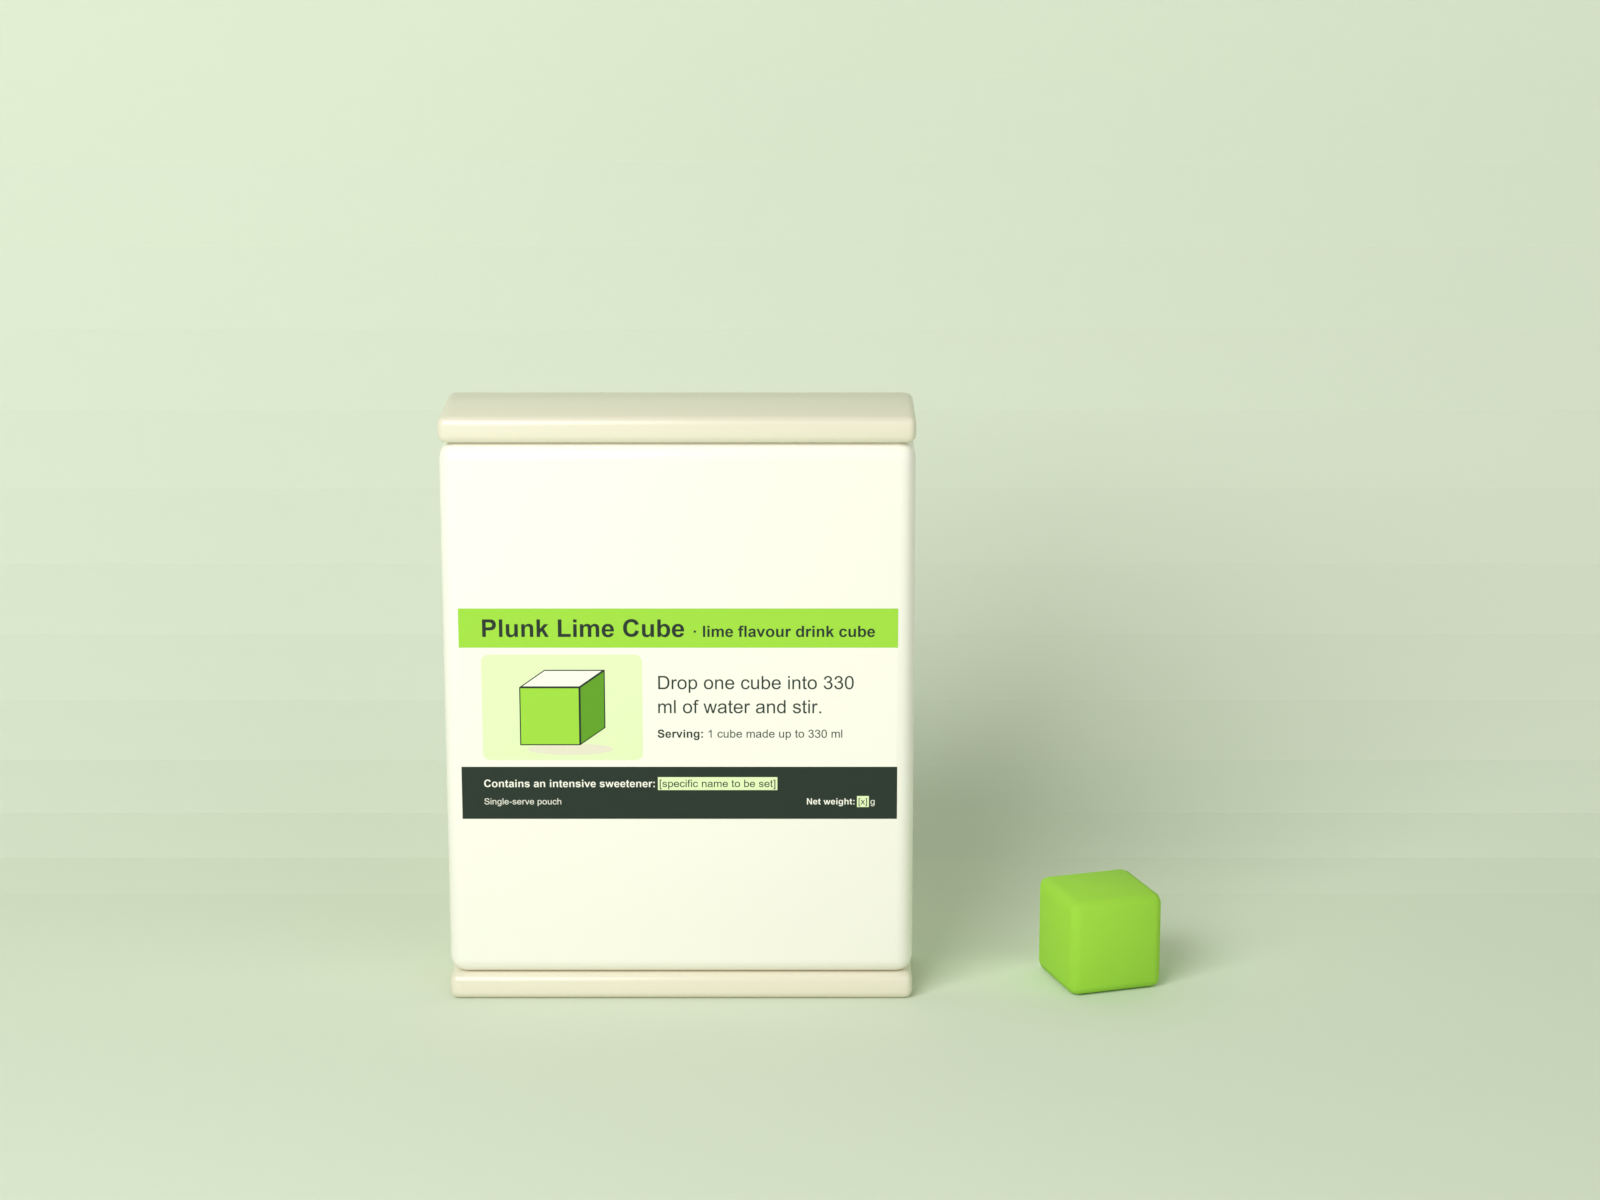
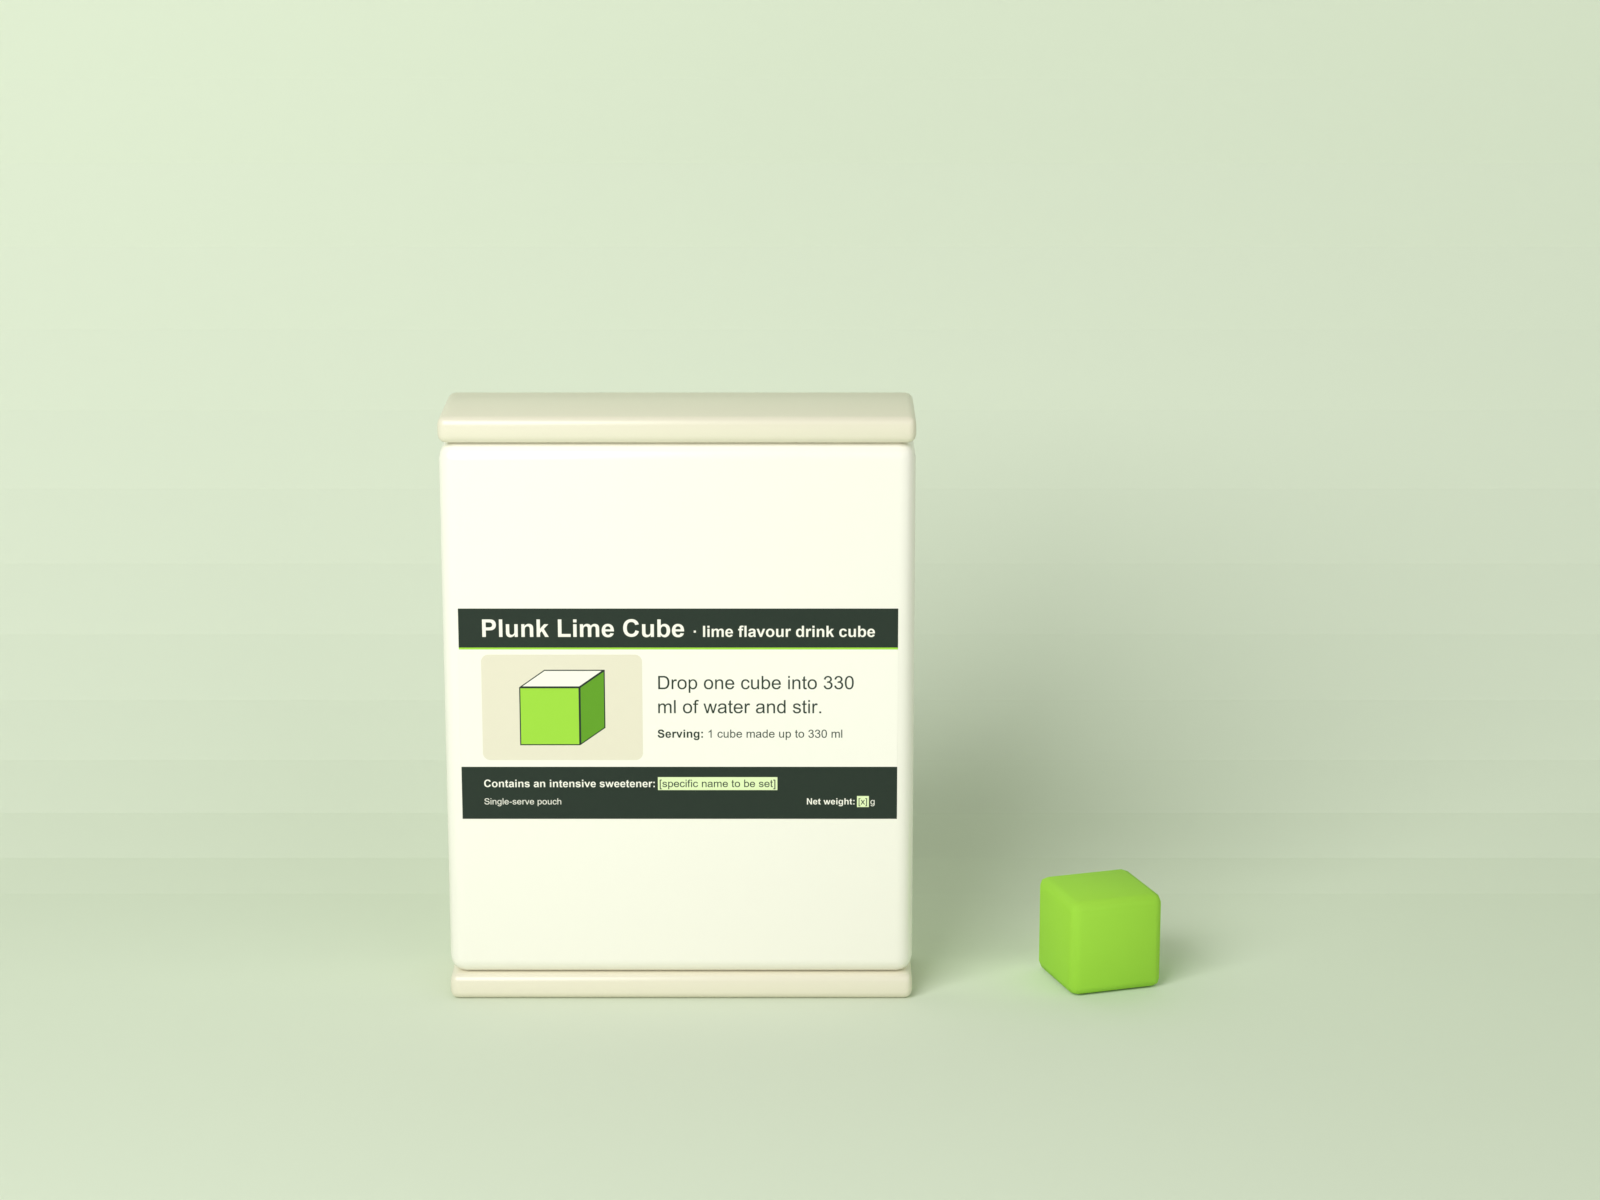
Redesign the pack with regard to the Singha lime soda can
Move the front-label name band from full lime to deep ink, add a thin
lime accent rule, and set the cube panel to off-white-deep. Lime stays
on the cube face only. Front and back, in the label and the 3D page.

Record the rules in rework/54: no lion, Garuda or SINGHA wordmark; lime
as an accent, not the field; no fruit-slice composition; no C badge; no
soda or lemon naming; keep the 330 ml reference; a flat pouch, not a can.
Observations are from search thumbnails only. Trade dress and trademark
are not cleared.

Hero re-rendered. Judge copies synced. Browser check 26/26.

Changed region(s): [[0.2812, 0.4933, 0.5625, 0.555]]

diff --git a/rework/judge/cube_3d.html b/rework/judge/cube_3d.html
@@ -285,7 +285,7 @@ function drawNameLine(ctx, baseline) {
   labelCheck.nameLineMm = (tW + yW) / PX_PER_MM;
   labelCheck.nameLineFitsAtSpec = !shrunk && (tW + yW) <= LIVE_W;
   labelCheck.nameLineSizeMm = { trade: Math.round(tSize * 100) / 100, type: Math.round(ySize * 100) / 100 };
-  ctx.fillStyle = C.ink;
+  ctx.fillStyle = C['off-white'];
   ctx.font = fontFor(T.weight, tSize);
   ctx.fillText(tradeName, MARGIN, baseline);
   ctx.font = fontFor(Y.weight, ySize);
@@ -389,11 +389,13 @@ function drawFront(ctx) {
   ctx.textAlign = 'left';
   ctx.fillStyle = C['off-white'];
   ctx.fillRect(0, 0, LABEL_W, LABEL_H);
-  ctx.fillStyle = C.lime;                     // top name band, 8 mm
+  ctx.fillStyle = C.ink;                      // top name band, deep ink (not the can's lime field)
   ctx.fillRect(0, 0, LABEL_W, 80);
   drawNameLine(ctx, 54);
-  ctx.fillStyle = C['lime-pale'];             // middle band, cube artwork
+  ctx.fillStyle = C['off-white-deep'];        // middle band, cube artwork
   ctx.fillRect(0, 80, LABEL_W, 400);
+  ctx.fillStyle = C.lime;                     // thin accent rule under the name band
+  ctx.fillRect(0, 80, LABEL_W, 10);
   drawIsoCube(ctx, LABEL_W / 2, 280, 100);
   ctx.fillStyle = C.ink;
   ctx.fillRect(0, 480, LABEL_W, 4);
@@ -412,9 +414,11 @@ function drawBack(ctx) {
   ctx.textAlign = 'left';
   ctx.fillStyle = C['off-white'];
   ctx.fillRect(0, 0, LABEL_W, LABEL_H);
-  ctx.fillStyle = C.lime;
-  ctx.fillRect(0, 0, LABEL_W, 80);
   ctx.fillStyle = C.ink;
+  ctx.fillRect(0, 0, LABEL_W, 80);
+  ctx.fillStyle = C.lime;
+  ctx.fillRect(0, 80, LABEL_W, 10);
+  ctx.fillStyle = C['off-white'];
   ctx.font = fontFor(TOKENS.typeMm.tradeName.weight, TOKENS.typeMm.tradeName.size);
   ctx.fillText(TOKENS.copyFront[0].split(' · ')[0], MARGIN, 54);
   let y = 136;

diff --git a/rework/mockup/cube_3d.html b/rework/mockup/cube_3d.html
@@ -285,7 +285,7 @@ function drawNameLine(ctx, baseline) {
   labelCheck.nameLineMm = (tW + yW) / PX_PER_MM;
   labelCheck.nameLineFitsAtSpec = !shrunk && (tW + yW) <= LIVE_W;
   labelCheck.nameLineSizeMm = { trade: Math.round(tSize * 100) / 100, type: Math.round(ySize * 100) / 100 };
-  ctx.fillStyle = C.ink;
+  ctx.fillStyle = C['off-white'];
   ctx.font = fontFor(T.weight, tSize);
   ctx.fillText(tradeName, MARGIN, baseline);
   ctx.font = fontFor(Y.weight, ySize);
@@ -389,11 +389,13 @@ function drawFront(ctx) {
   ctx.textAlign = 'left';
   ctx.fillStyle = C['off-white'];
   ctx.fillRect(0, 0, LABEL_W, LABEL_H);
-  ctx.fillStyle = C.lime;                     // top name band, 8 mm
+  ctx.fillStyle = C.ink;                      // top name band, deep ink (not the can's lime field)
   ctx.fillRect(0, 0, LABEL_W, 80);
   drawNameLine(ctx, 54);
-  ctx.fillStyle = C['lime-pale'];             // middle band, cube artwork
+  ctx.fillStyle = C['off-white-deep'];        // middle band, cube artwork
   ctx.fillRect(0, 80, LABEL_W, 400);
+  ctx.fillStyle = C.lime;                     // thin accent rule under the name band
+  ctx.fillRect(0, 80, LABEL_W, 10);
   drawIsoCube(ctx, LABEL_W / 2, 280, 100);
   ctx.fillStyle = C.ink;
   ctx.fillRect(0, 480, LABEL_W, 4);
@@ -412,9 +414,11 @@ function drawBack(ctx) {
   ctx.textAlign = 'left';
   ctx.fillStyle = C['off-white'];
   ctx.fillRect(0, 0, LABEL_W, LABEL_H);
-  ctx.fillStyle = C.lime;
-  ctx.fillRect(0, 0, LABEL_W, 80);
   ctx.fillStyle = C.ink;
+  ctx.fillRect(0, 0, LABEL_W, 80);
+  ctx.fillStyle = C.lime;
+  ctx.fillRect(0, 80, LABEL_W, 10);
+  ctx.fillStyle = C['off-white'];
   ctx.font = fontFor(TOKENS.typeMm.tradeName.weight, TOKENS.typeMm.tradeName.size);
   ctx.fillText(TOKENS.copyFront[0].split(' · ')[0], MARGIN, 54);
   let y = 136;

diff --git a/rework/mockup/make_label.py b/rework/mockup/make_label.py
@@ -252,11 +252,12 @@ def build_front(tok, C, name):
     d = p.draw
     # Top band: name line.
     band_top = 220
-    d.rectangle([0, 0, W, band_top], fill=C["lime"])
-    name_line(p, name, band_top, C["ink"])
+    d.rectangle([0, 0, W, band_top], fill=C["ink"])
+    d.rectangle([0, band_top, W, band_top + 10], fill=C["lime"])
+    name_line(p, name, band_top, C["off-white"])
 
     # Middle band: cube on a lime-pale panel, instruction copy on the right.
-    d.rounded_rectangle([MARGIN, 260, 1000, 860], radius=40, fill=C["lime-pale"])
+    d.rounded_rectangle([MARGIN, 260, 1000, 860], radius=40, fill=C["off-white-deep"])
     e = 330
     ox, oy = round(0.42 * e), round(-0.30 * e)
     bbox_w, bbox_h = e + ox, e - oy
@@ -320,8 +321,9 @@ def build_back(tok, C, name):
     p = Panel(C["off-white"])
     d = p.draw
     band_top = 220
-    d.rectangle([0, 0, W, band_top], fill=C["lime"])
-    name_line(p, name, band_top, C["ink"])
+    d.rectangle([0, 0, W, band_top], fill=C["ink"])
+    d.rectangle([0, band_top, W, band_top + 10], fill=C["lime"])
+    name_line(p, name, band_top, C["off-white"])
 
     top_y = 290
     col_w = 1020

diff --git a/rework/54_package_redesign_vs_singha_can.md b/rework/54_package_redesign_vs_singha_can.md
@@ -1,0 +1,55 @@
+# Package redesign, with regard to the Singha lime soda can (18 October 2026)
+
+Status: redesign applied to the front label and the 3D page, and the hero re-rendered. This is a design decision for the team, not a legal clearance. A trade-dress and trademark check is still open (section 6).
+
+## 1. What we looked at
+
+Google image search for "singha lime soda", read through the built-in browser on 18 October 2026. Thumbnails only: nothing was downloaded, and no page beyond the results was opened.
+
+- The first results were **SINGHA LEMON SODA** (green variant) and **SINGHA RED LEMON SODA** (red variant), both listed by Singha Corporation. No lime-variant can was in the first results.
+- The lime sparkling product is **Singha Sparkling Water Lime Flavour**, a 330 ml can at THB 15 from the March 2026 launch ([rework/42](42_working_candidate_lime_cube.md)). Its can design was not seen, so section 3 rests on the lemon soda can.
+- Can features seen: a slim can; a full lime-green field (green variant); the lion emblem in white; the SINGHA wordmark across the top; a "LEMON SODA" name band; fruit slices bottom right; a small circular "C" badge on the lower left; small Thai product text. The red variant uses the same layout in red.
+
+## 2. What "respecting the can" means here
+
+We read the instruction as: design the package with regard to the can. That means three things.
+
+1. **Stay clear of its trade dress.** Do not copy its emblem, wordmark, colour field, or layout.
+2. **Keep the like-for-like reference.** Same 330 ml serving reference, so shoppers can compare the two at the shelf.
+3. **Be distinct at a glance.** A different format (a pouch, not a cylinder) and a different dominant colour.
+
+## 3. Rules adopted
+
+| # | Rule | Reason |
+|---|---|---|
+| R-P1 | No lion emblem, no Garuda, no SINGHA wordmark or lettering in any form | Organiser marks, on the no-use list in [rework/48](48_brand_style_matching.md) |
+| R-P2 | No full lime-green field. Lime is an accent only: a thin rule and the cube's own face. The dominant colour is deep ink | The can's lime field is its main shelf identity |
+| R-P3 | No fruit-slice composition. The cube drawing is the hero | Fruit slices are part of the can's layout |
+| R-P4 | No "C" or other nutrition badge | Badges can imply a claim we cannot make ([rework/50](50_final_gate_resolution.md)) |
+| R-P5 | No "soda", "lemon", or the organiser's product name. The working name stays "Plunk Lime Cube" | The can's name family; the working name is not cleared |
+| R-P6 | Keep the 330 ml serving reference | Like-for-like comparison at the shelf |
+| R-P7 | The pack is a flat single-serve pouch, not a cylinder | Format clearly different from a can |
+
+## 4. Palette: before and after
+
+| Element | Before (18 Oct, earlier) | After (this redesign) |
+|---|---|---|
+| Name band | Full-width lime `#9ED83A` | Deep ink `#12241B`, with off-white name |
+| Accent | None | 10 px lime rule under the name band |
+| Cube panel | Lime-pale `#E3F3BE` | Off-white-deep `#E6E0CB` |
+| Cube face | Lime `#9ED83A` | Lime `#9ED83A` (kept, as the one lime element) |
+| Bottom band | Ink | Ink (unchanged) |
+
+## 5. What changed in the repo
+
+- `rework/mockup/make_label.py`: name band to ink with the off-white name, a lime rule, and the cube panel to off-white-deep. Front and back. The label was regenerated.
+- `rework/mockup/cube_3d.html`: the same changes in the canvas label, and the name-line colour.
+- `rework/mockup/cube_hero.png`: re-rendered with the new front (128 samples, Blender 5.2, about 6 minutes).
+- `rework/judge/`: copies updated. The browser check passes 26 of 26 on the recoloured page. The judge PNGs carry no text metadata.
+
+## 6. Limits and open items
+
+- **Trade dress and trademark are not cleared.** Only thumbnails were seen, and no registry search was done. A formal trade-dress and trademark search is needed before any public use, and it is outside this desk scope.
+- **The lime can itself was not seen.** The redesign follows the lemon soda can. If the lime can differs, rules R-P1 to R-P3 still hold, but the palette should be checked against it.
+- **Pack form still reads as a box** in the render, because the 20 mm depth and the seal-ridge profile are assumptions ([MATERIALS_cube.md](mockup/MATERIALS_cube.md)).
+- **The palette is a design choice.** It has not been tested with shoppers.
